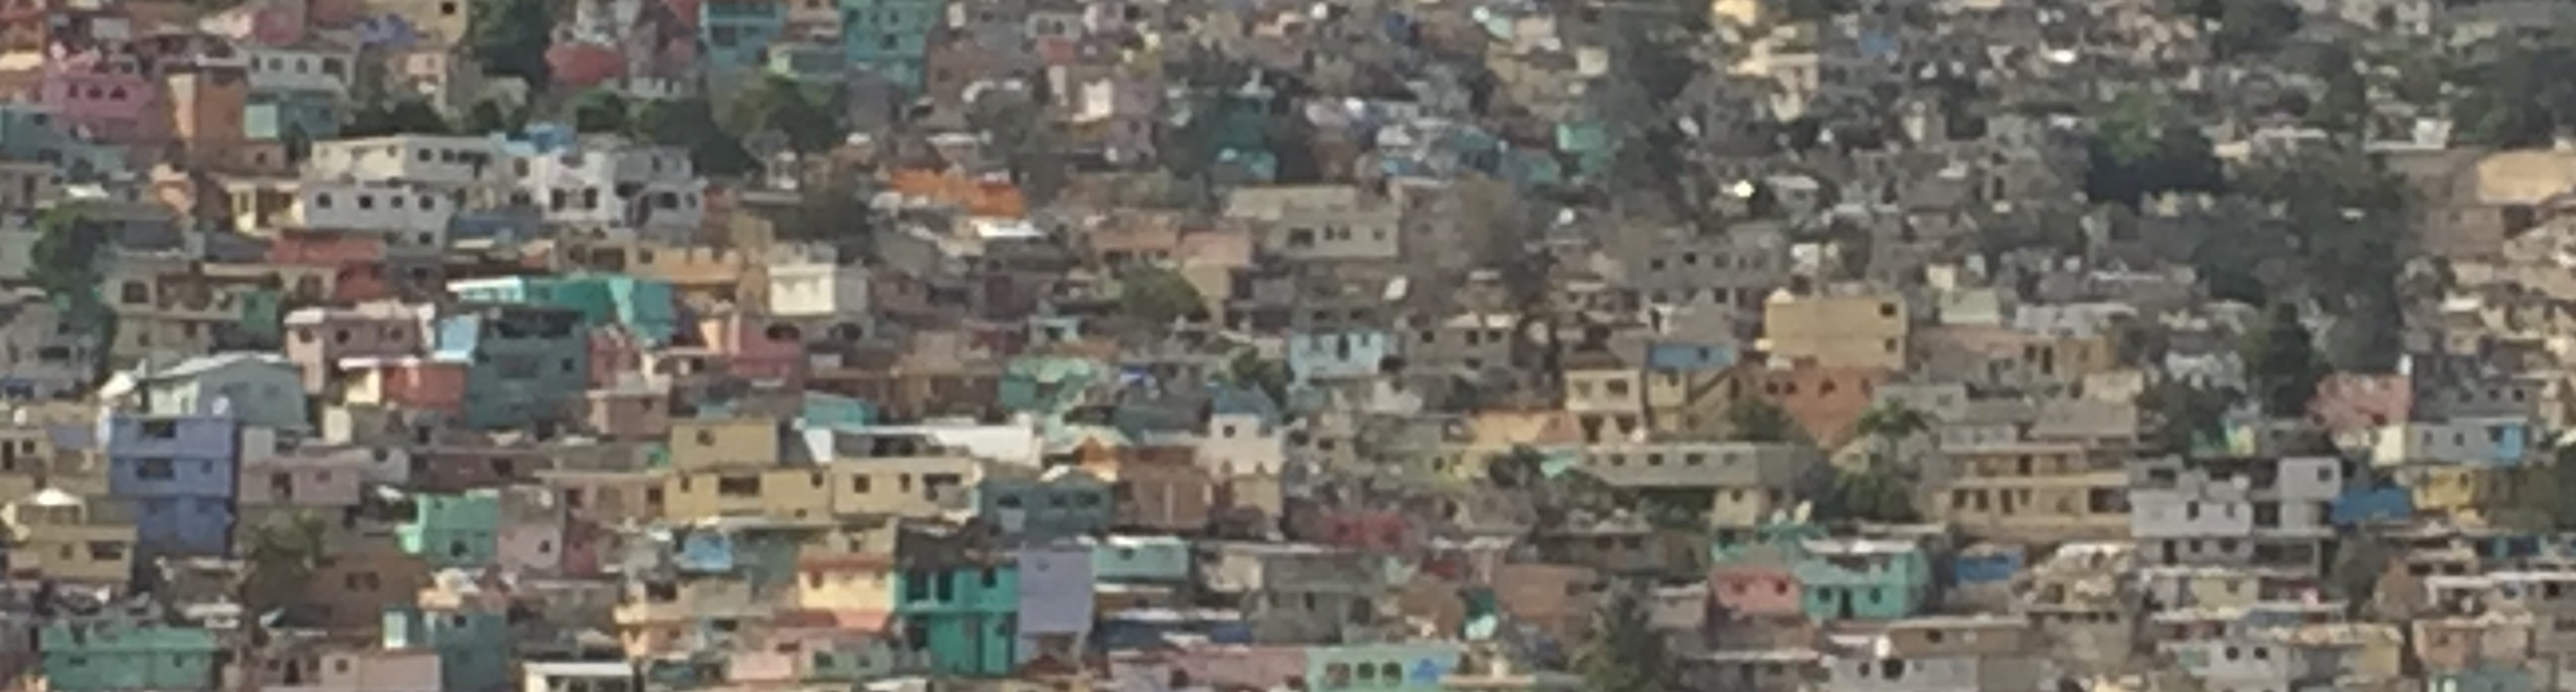
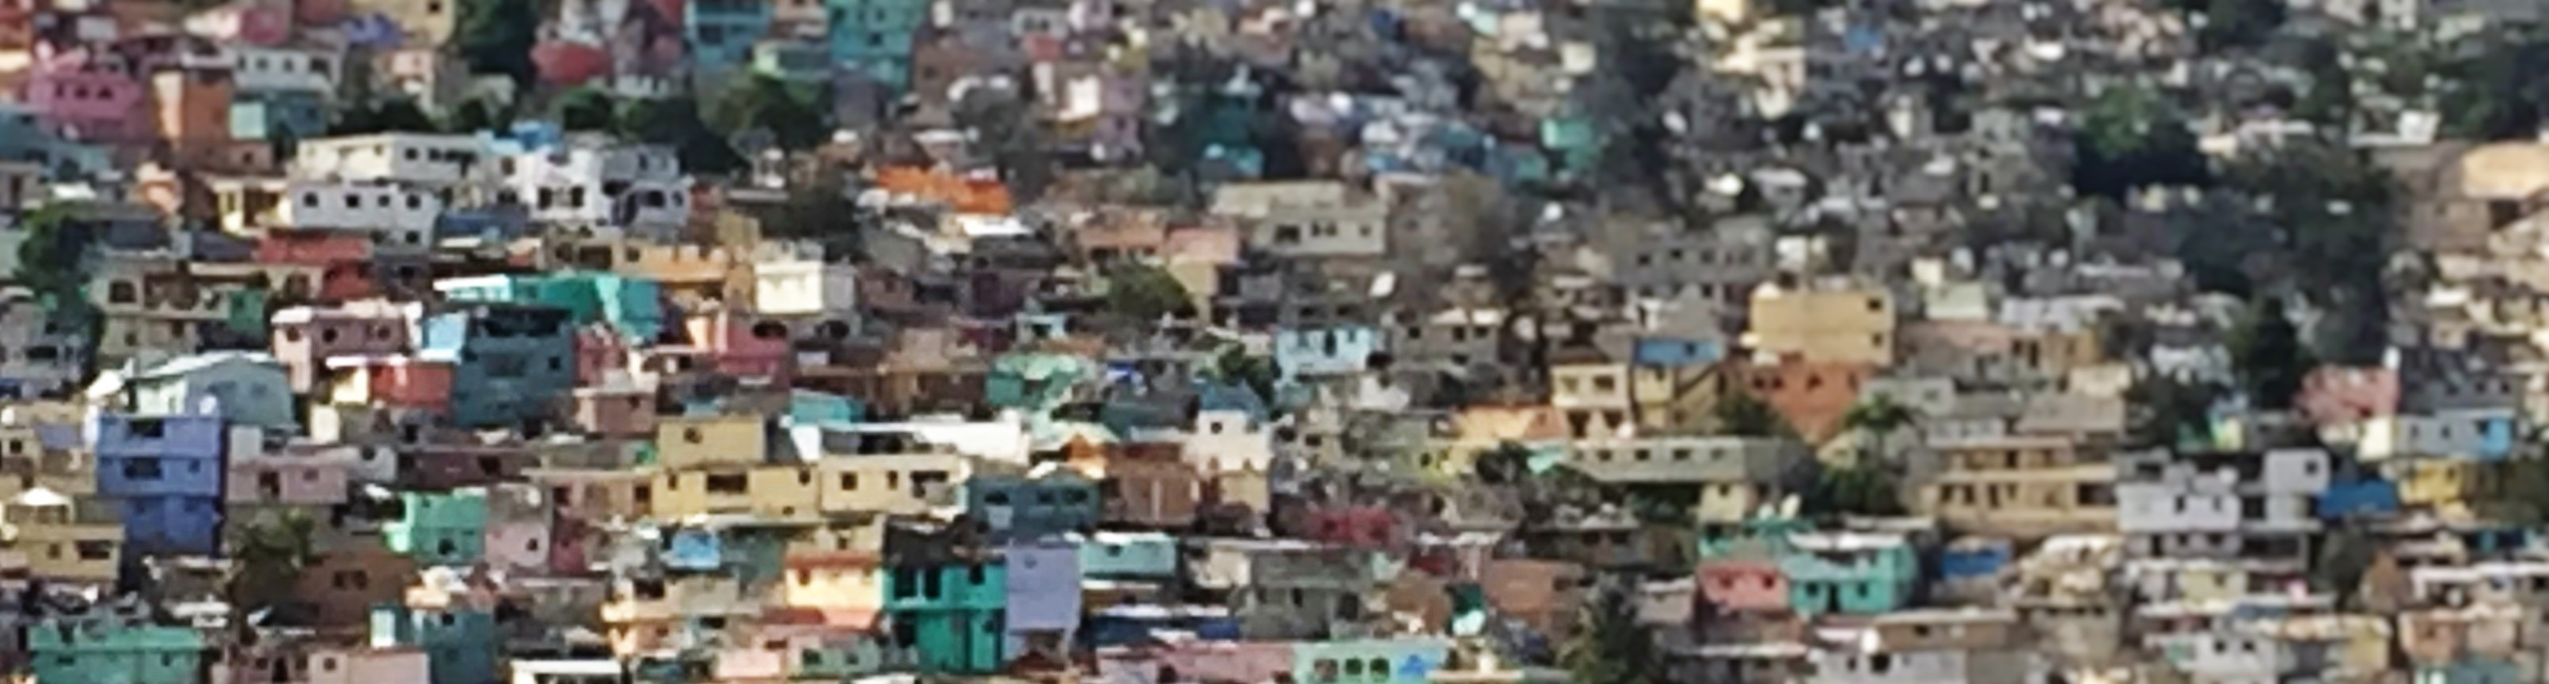
updates to unit 9
final updates minus text

diff --git a/unit_9/css/style.css b/unit_9/css/style.css
@@ -208,7 +208,7 @@ button:hover {
 .hero-services{
 	display: block;
 	height: 18em;
-	background: url("../images/haiti_pic.jpg");
+	background: url("../images/services2.jpg");
 	background-size: cover;
 	background-repeat: no-repeat;
 	padding-top: 1em;
@@ -227,21 +227,46 @@ button:hover {
 	display: block;
 	height: 18em;
 	background-color: #eeeeee;
-	background: url("../images/haiti_pic.jpg");
+	background: url("../images/about_us8.jpg");
 	background-size: cover;
 	background-repeat: no-repeat;
 	padding-top: 1em;
 }
 
-.secondary-header {
-	padding: 3em;
-	color: white;
-	text-indent: 1em
+#secondary-header-services{
+	padding: 5.5em 0em 5.5em 0em;
+	/*text-align: center;*/
+	/*color: white;*/
+	text-indent: 1em;
 }
 
-.secondary-header h1 {
-	color: white;
+#secondary-header-services h1 {
+/*color: rgba(0, 0, 0, .7);*/
 }
+
+
+#secondary-header-industries {
+	padding: 2em 4em 2em 10em;
+	/*text-align: center;*/
+	/*color: white;*/
+	text-indent: 1em;
+}
+
+#secondary-header-industries h1 {
+color: rgba(0, 0, 0, .7);
+}
+
+#secondary-header-about {
+	padding: 2em 4em 2em 10em;
+	/*text-align: center;*/
+	/*color: white;*/
+	text-indent: 1em;
+}
+
+#secondary-header-about h1 {
+color: rgba(0, 0, 0, .7);
+}
+
 
 .secondary-text {
 	/*border: 1px black solid;*/

diff --git a/unit_9/services.html b/unit_9/services.html
@@ -21,7 +21,8 @@
 
  			<section class="hero-services">
  				<!-- <img src="/images/windows.jpg"> -->
-			<div class="secondary-header"> <h1>Lorem Ipsum</h1>
+			<div id="secondary-header-services"> 
+				<!-- <h1>Moving Right Together</h1> -->
 			</div>  
 			</section>		
 			<section class="secondary-text">

diff --git a/unit_9/industries.html b/unit_9/industries.html
@@ -21,7 +21,8 @@
 
  			<section class="hero-industries">
  				<!-- <img src="/images/windows.jpg"> -->
-			<div class="secondary-header"> <h1>Lorem Ipsum</h1>
+			<div id="secondary-header-industries"> 
+				<!-- <h1>Lorem Ipsum</h1> -->
 			</div>  
 			</section>		
 			<section class="secondary-text">

diff --git a/unit_9/about.html b/unit_9/about.html
@@ -19,7 +19,8 @@
 <main>		
 
  			<section class="hero-about">
- 			 	<div class="secondary-header"> <h1>Lorem Ipsum</h1>
+ 			 	<div id="secondary-header-about"> 
+ 			 		<!-- <h1>Our Team</h1> -->
 				</div>  
 			</section>		
 			<section class="secondary-text">
